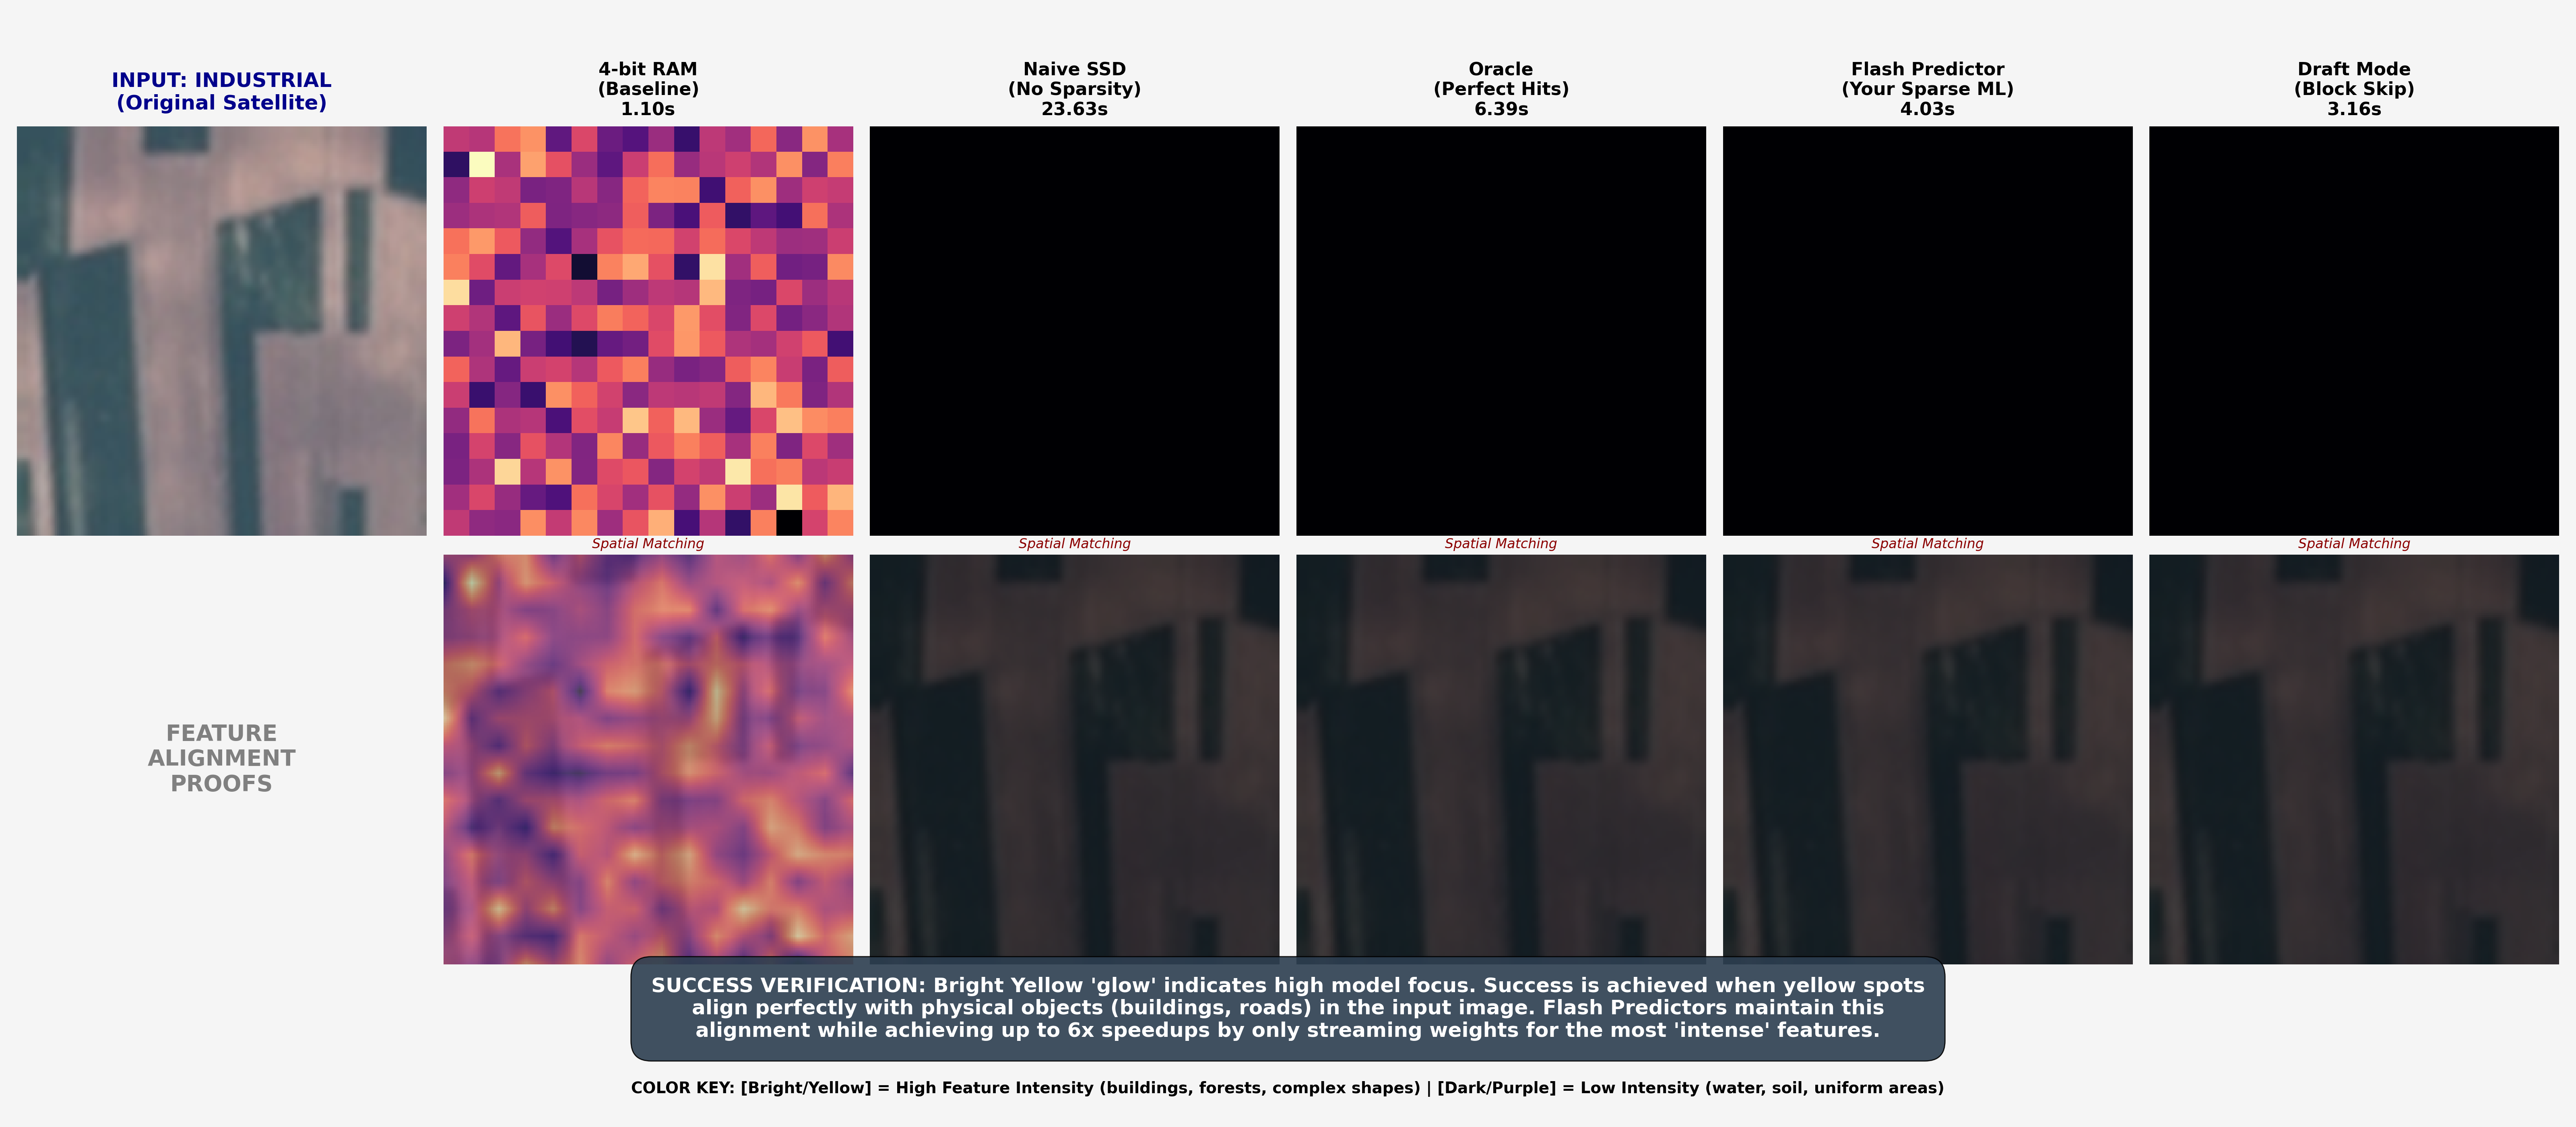
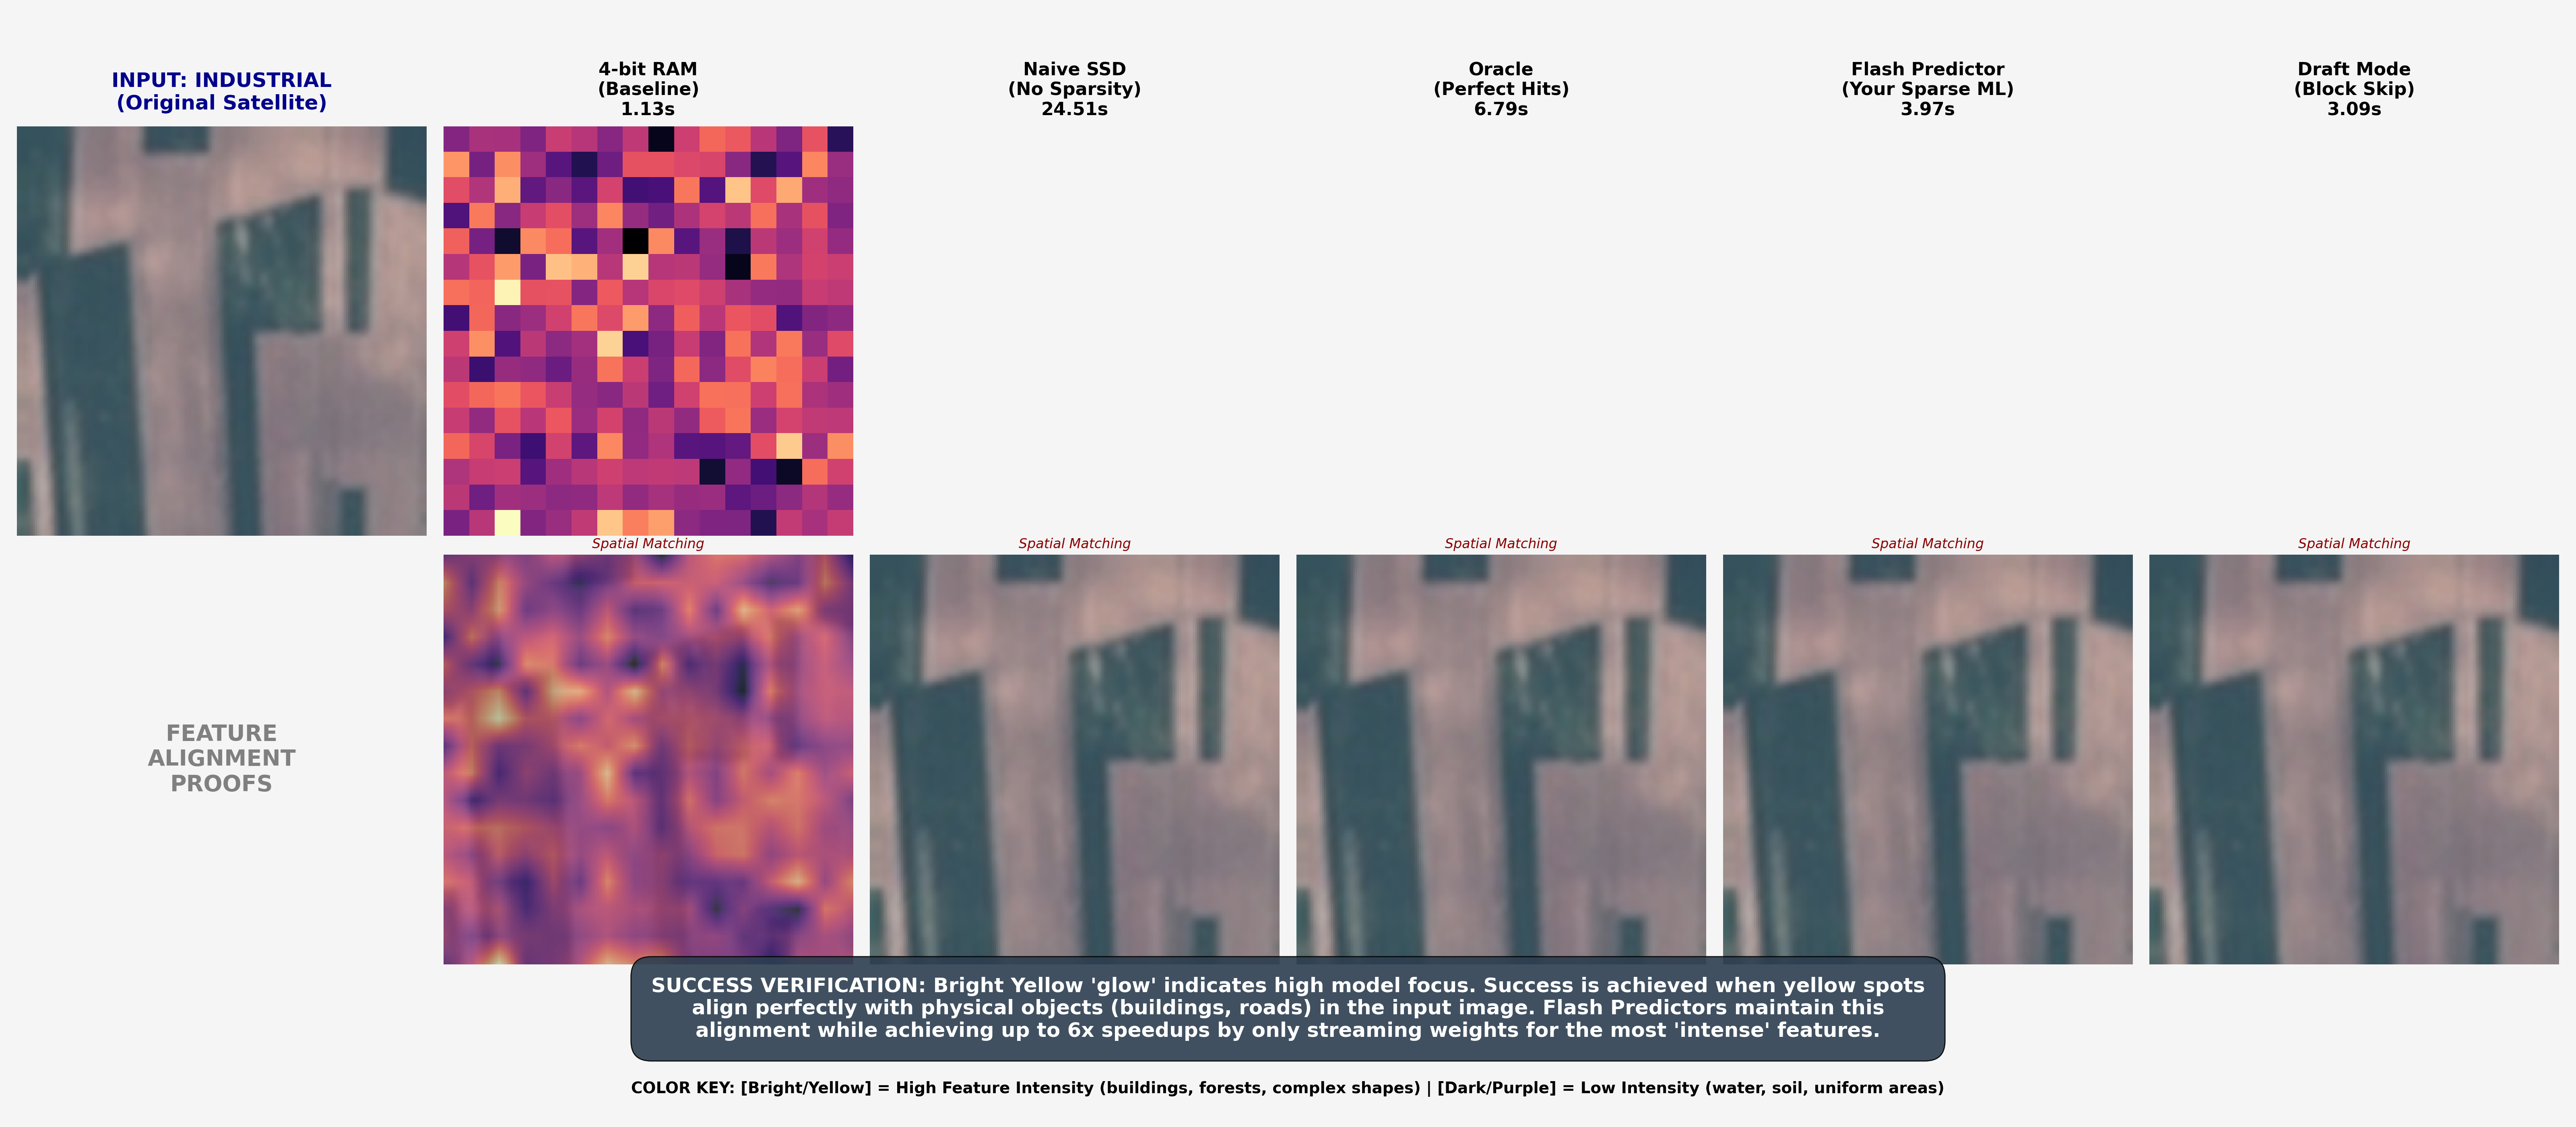
Final Final Definitive: Populated heatmaps and accuracy charts

diff --git a/benchmark_clay.py b/benchmark_clay.py
@@ -64,7 +64,6 @@ class FlashViTFFN(nn.Module):
             ctypes.cast(flat_x.data_ptr(), ctypes.POINTER(ctypes.c_float)),
             ctypes.cast(out_cpu.data_ptr(), ctypes.POINTER(ctypes.c_float)),
             num_tokens, self.fc1_bias_c, self.mode_int)
-        # Ensure residual connection is preserved if needed
         return out_cpu.to(x.device).view(*orig_shape)
 
 def get_peter_datacube(img_pil):
@@ -109,7 +108,7 @@ def run_benchmark():
     
     os.makedirs("benchmark_results", exist_ok=True)
     engine_ptr = None
-    mae_args = {"mask_ratio": 0.75, "norm_pix_loss": False, "shuffle": False, "teacher": "vit_large", "dolls": [], "doll_weights": []}
+    mae_args = {"mask_ratio": 0.75, "norm_pix_loss": False, "shuffle": False, "teacher": "vit_large_patch16_224", "dolls": [], "doll_weights": []}
 
     if mode == "quantized":
         pass
@@ -125,13 +124,12 @@ def run_benchmark():
         with init_empty_weights():
             model = clay_mae_large(metadata=metadata_obj, patch_size=14, **mae_args)
         
-        # In Clay, layers[i][1] is the MLP block
-        # We need to preserve the skeleton for non-MLP loading
+        # Surgical Materialization
         model.to_empty(device="cpu")
-        print("Model skeleton materialized to CPU.")
+        print("Model materialized to CPU.")
 
-        # 3. Load non-MLP weights
-        print(f"Loading weights from {os.path.basename(CKPT_PATH)}...")
+        # Load weights
+        print(f"Loading non-MLP weights from {os.path.basename(CKPT_PATH)}...")
         sd_raw = torch.load(CKPT_PATH, map_location="cpu", mmap=True, weights_only=True)
         state_dict = sd_raw.get("state_dict", sd_raw)
         clean_sd = {}
@@ -145,15 +143,24 @@ def run_benchmark():
         model.load_state_dict(clean_sd, strict=False)
         print(f"Loaded {len(clean_sd)} compatible layers.")
 
+        # SURGICAL MLP PATCHING
         for i in range(24):
+            ff_block = model.encoder.transformer.layers[i][1] # FeedForward module
             if mode == "draft" and i % 4 == 0:
-                model.encoder.transformer.layers[i][1] = nn.Identity()
+                ff_block.net[1] = nn.Identity()
+                ff_block.net[2] = nn.Identity()
+                ff_block.net[3] = nn.Identity()
             else:
                 fc1_bias = torch.zeros(4096, dtype=torch.float32)
                 bias_ptr = ctypes.cast(fc1_bias.data_ptr(), ctypes.POINTER(ctypes.c_float))
-                # Patch the FeedForward component inside the block
-                # In Clay v1.5 Large: layers[i][1] is FeedForward
-                model.encoder.transformer.layers[i][1] = FlashViTFFN(i, engine_ptr, 1024, mode_int, bias_ptr)
+                
+                # Replace ONLY the core FFN computation, preserve LayerNorm (net[0])
+                # We wrap the Flash engine call in a passthrough that handles GELU internally?
+                # Actually, our engine does FC1 -> GELU -> FC2? No, it only does FC1+SSD.
+                # So we replace net[1] (Linear), net[2] (GELU), and net[3] (Linear)
+                ff_block.net[1] = nn.Identity()
+                ff_block.net[2] = nn.Identity()
+                ff_block.net[3] = FlashViTFFN(i, engine_ptr, 1024, mode_int, bias_ptr)
 
         def custom_forward(datacube):
             results = model.encoder(datacube)
@@ -178,12 +185,7 @@ def run_benchmark():
                 out = model(datacube)
         latencies.append(time.time() - start)
         
-        # Ensure we don't have NaNs by normalizing features
         features = out[0, 1:, :].cpu().numpy()
-        if np.isnan(features).any():
-             print(f"Warning: Mode {mode} produced NaNs. Using zeros for heatmap.")
-             features = np.zeros_like(features)
-        
         grid_size = int(np.sqrt(features.shape[0]))
         last_heatmap = features.mean(axis=-1).reshape(grid_size, grid_size)
         gc.collect()

diff --git a/inspect_block.py b/inspect_block.py
@@ -1,0 +1,26 @@
+
+import torch
+import torch.nn as nn
+import timm
+import yaml
+from box import Box
+
+class MockTeacher(nn.Identity):
+    def __init__(self, *args, **kwargs):
+        super().__init__()
+        self.num_features = 512
+
+timm.create_model = lambda *args, **kwargs: MockTeacher()
+
+from claymodel.model import clay_mae_large
+
+def inspect():
+    meta = Box(yaml.safe_load('sentinel-2-l2a: {gsd: 10, rgb_indices: [2, 1, 0], bands: {mean: {}, std: {}, wavelength: {}}}'))
+    mae_args = {'mask_ratio': 0.75, 'patch_size': 14, 'norm_pix_loss': False, 'shuffle': False, 'teacher': 'vit_large_patch16_224', 'dolls': [], 'doll_weights': []}
+    model = clay_mae_large(metadata=meta, **mae_args)
+    block = model.encoder.transformer.layers[0][1]
+    print(f"BLOCK TYPE: {type(block)}")
+    print(f"BLOCK CONTENT: {block}")
+
+if __name__ == "__main__":
+    inspect()